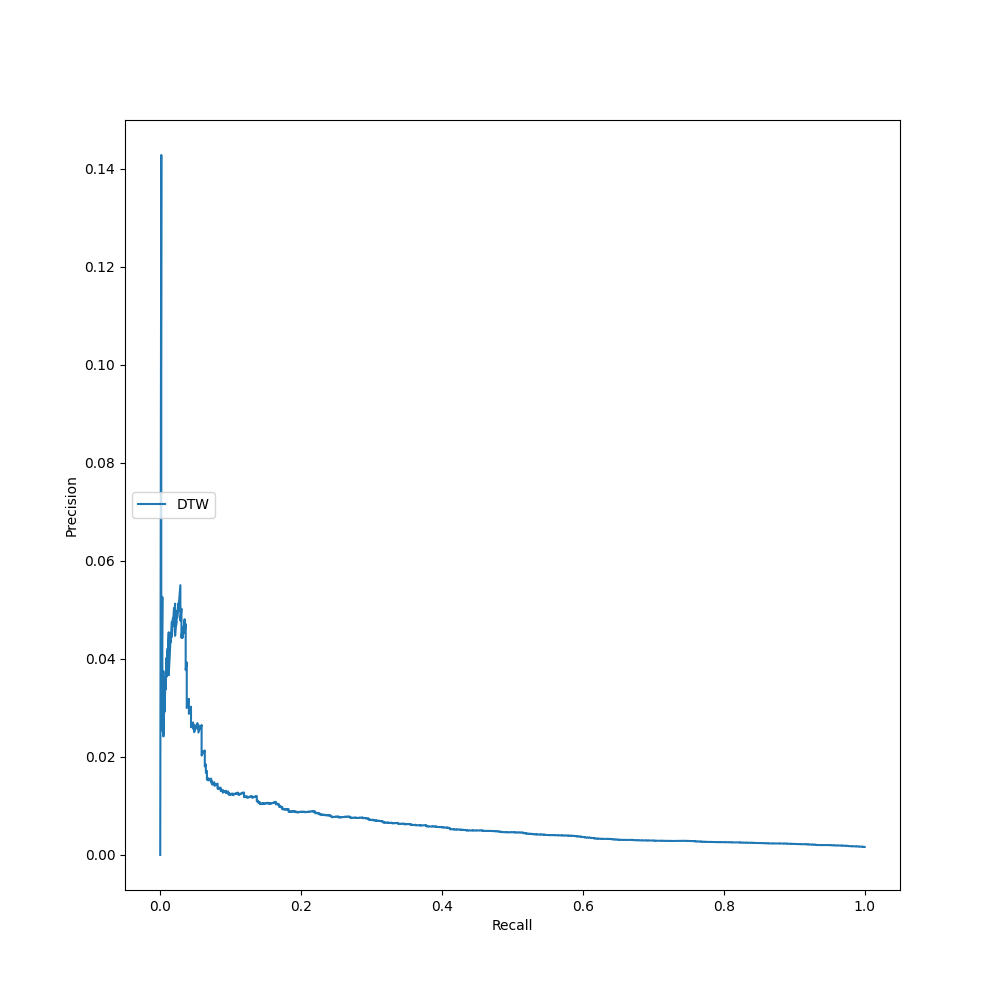
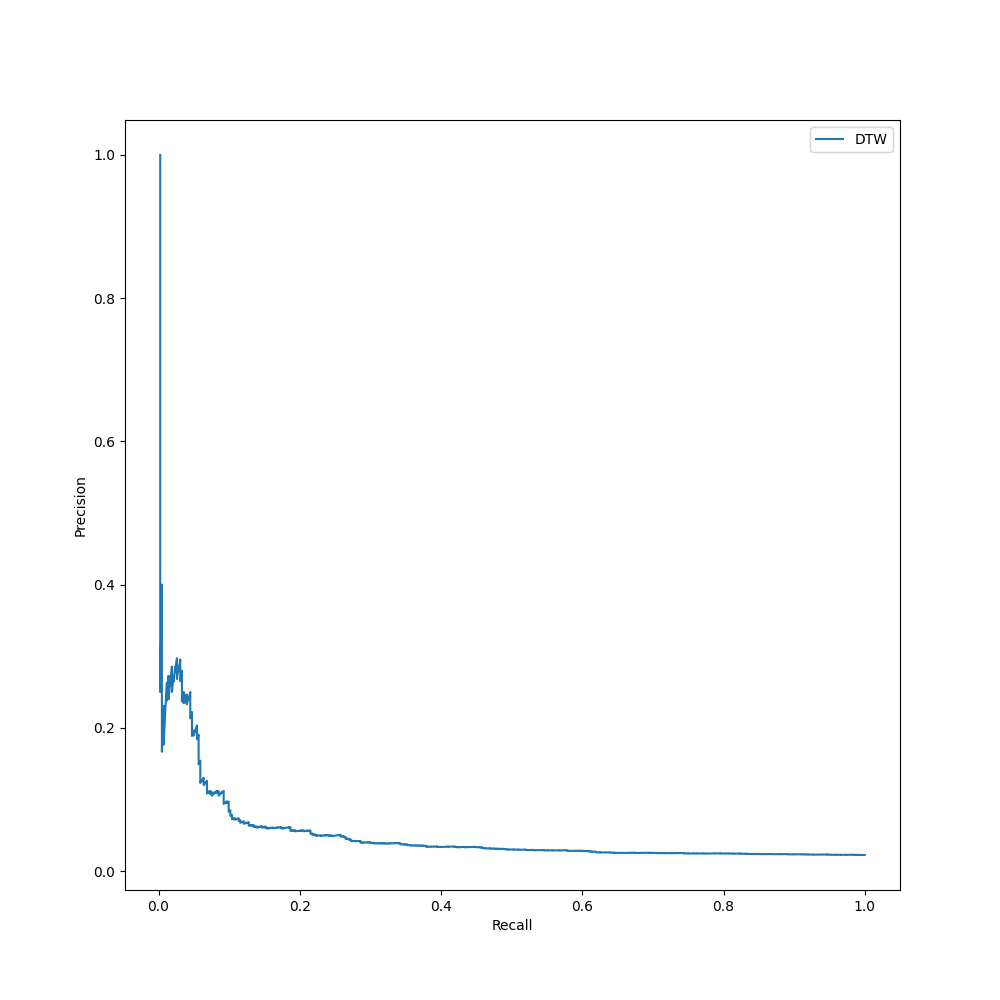
evaluation update

diff --git a/exercise3/evaluation/evaluation.py b/exercise3/evaluation/evaluation.py
@@ -1,4 +1,6 @@
 import matplotlib.pyplot as plt
+import time
+from fpdf import FPDF
 from pathlib import Path
 from exercise3.string_utils import correct_string
 
@@ -6,7 +8,6 @@ ROOT_PATH = Path.cwd().parents[0]
 TRANSCRIPTION_PATH = ROOT_PATH / "data" / "ground-truth" / "transcription.txt"
 KEYWORD_PATH = ROOT_PATH / "data" / "task" / "keywords.txt"
 CLASSIFICATION_PATH = ROOT_PATH / "distance" / "output" / "distances.csv"
-THRESHOLDS = range(5, 6)
 
 
 def read_classifications(path):
@@ -40,62 +41,57 @@ def read_transcriptions(path):
     return transcriptions
 
 
-def classification_values(classifications, transcriptions, keywords):
-    true_positives = 0
-    false_positives = 0
-    false_negatives = 0
-    classified_words = set(classifications.values())
-    for word in classified_words:
-        correct_ids = [word_id for word_id, keyword in transcriptions.items() if keyword == word.replace("-", "")]
-        classified_ids = [
-            word_id for word_id, keyword in classifications.items() if keyword == word
-        ]
-        true_positives += sum(
-            list(
-                map(lambda word_id: 1 if word_id in correct_ids else 0, classified_ids)
-            )
-        )
-        false_positives += sum(
-            list(
-                map(
-                    lambda word_id: 1 if word_id not in correct_ids else 0,
-                    classified_ids
-                )
-            )
-        )
-        false_negatives += sum(
-            list(
-                map(
-                    lambda word_id: 1 if word_id not in classified_ids else 0,
-                    correct_ids
-                )
-            )
-        )
-    return true_positives, false_positives, false_negatives
-
-
-def top_k_matches(k, classifications, transcriptions):
+def top_k_matches(k, classifications, transcriptions, threshold):
     matches = []
+    no_matches = []
     transcription_words = list(transcriptions.values())
     for word in classifications.keys():
+
+        # get ids from transcriptions associated to this word
         ids = [word_id for word_id in transcriptions.keys() if transcriptions[word_id] == word]
+
+        # get ids from classifications associated to this word (up to a specified threshold)
+        classified_ids = [y[0] for y in classifications[word][:threshold+1]]
         if word not in transcription_words:
             print(f'No transcription for word: {word}')
             continue
-        elif set(ids).isdisjoint([y[0] for y in classifications[word]]):
-            print(f'None of the classified word_ids for word \'{word}\' '
-                  f'was found in associated ids in the transcriptions')
+        elif set(ids).isdisjoint(classified_ids):
+            print(f'None of the classified ids found among the associated ids in the transcriptions for \'{word}\'')
+            no_matches.append(word)
             continue
+
+        # create match-list indicating whether a classified id corresponds to the word (1) or not (0),
+        # i.e checking if id is among ids for this word according to the transcriptions
         idx = 0
         current_matches = []
-        while sum([match[0] for match in current_matches]) < k and idx < 2433:
+        while sum([match[0] for match in current_matches]) < k and idx < threshold:
             current_matches.append(
                 (int(transcriptions[classifications[word][idx][0]] == word), classifications[word][idx][1])
             )
             idx += 1
+
+        current_matches = post_treatment(current_matches, k)
+
+        # append matches for this word to overall matches
         matches.extend(current_matches)
+
+    # sort matches by dissimilarity in ascending order
     matches.sort(key=lambda match: match[1])
-    return [match[0] for match in matches]
+    return [match[0] for match in matches], no_matches
+
+
+def post_treatment(current_matches, k):
+
+    # if number of matches smaller than k, cutoff after last match (i.e. last occurrence of a 1)
+    if sum([match[0] for match in current_matches]) < k:
+        last_match_idx = ''.join([str(match[0]) for match in current_matches]).rindex('1')
+        current_matches = current_matches[:last_match_idx + 1]
+
+    # start match-list at first match (i.e. first occurrence of a 1)
+    first_match_idx = [match[0] for match in current_matches].index(1)
+    current_matches = current_matches[first_match_idx:]
+
+    return current_matches
 
 
 def precision_recall(matches):
@@ -113,13 +109,8 @@ def plot_precision_recall_curve(precision_scores, recall_scores):
     plt.plot(recall_scores, precision_scores, label='DTW')
     plt.xlabel('Recall')
     plt.ylabel('Precision')
-    plt.legend(loc='center left')
+    plt.legend(loc='upper right')
     plt.savefig('./precision_recall_curve.png')
-    # figure, axis = plt.subplots(figsize=(6, 6))
-    # axis.plot(recall_scores, precision_scores, label="DTW")
-    # axis.set_xlabel("Recall")
-    # axis.set_ylabel("Precision")
-    # axis.legend(loc="center left")
 
 
 def calculate_average_precision(precision_scores, recall_scores):
@@ -135,17 +126,69 @@ def calculate_average_precision(precision_scores, recall_scores):
     return average_precision
 
 
+def evaluation_report(no_matches, avg_precision, time_elapsed):
+
+    # initialize new doc with empty page
+    pdf = FPDF()
+    pdf.add_page()
+
+    # add title
+    pdf.set_xy(0.0, 0.0)
+    pdf.set_font('Arial', 'B', 16)
+    pdf.set_text_color(220, 50, 50)
+    pdf.cell(w=210.0, h=40.0, align='C', txt="Evaluation", border=0)
+
+    # add list words with no match
+    text = "For the following words no match was found, i.e none of the classified ids for this word was found among " \
+           "the ids associated to this word in the transcriptions: \n"
+    pdf.set_xy(13.0, 30.0)
+    pdf.set_font('Arial', 'B', 8)
+    pdf.set_text_color(0, 0, 0)
+    pdf.multi_cell(w=180.0, h=4.0, align='l', txt=text, border=0)
+
+    no_matches = ''.join([word + ', ' for word in no_matches])
+    pdf.set_xy(13.0, 40.0)
+    pdf.set_font('Arial', '', 8)
+    pdf.multi_cell(w=180.0, h=4.0, align='L', txt=no_matches, border=0)
+
+    # add plot
+    pdf.set_xy(13.0, 130.0)
+    pdf.set_font('Arial', 'B', 8)
+    pdf.multi_cell(w=180.0, h=4.0, align='L', txt='PRECISION-RECALL-CURVE', border=0)
+    pdf.set_xy(13.0, 134.0)
+    pdf.image('./precision_recall_curve.png', link='', type='', w=130, h=130)
+
+    # avg precision and time elapsed
+    avg_precision = "Average precision calculated: " + str(avg_precision)
+    pdf.set_xy(13.0, 267.0)
+    pdf.set_font('Arial', 'B', 8)
+    pdf.cell(w=180.0, h=4.0, align='L', txt=avg_precision, border=0)
+
+    time_elapsed = "Time for evaluation: " + str(time_elapsed) + " seconds"
+    pdf.set_xy(13.0, 271.0)
+    pdf.set_font('Arial', 'B', 8)
+    pdf.cell(w=180.0, h=4.0, align='L', txt=time_elapsed, border=0)
+
+    pdf.output('./evaluation_report.pdf', 'F')
+
+
 def run_evaluation():
+    start = time.time()
     classifications = read_classifications(CLASSIFICATION_PATH)
     transcriptions = read_transcriptions(TRANSCRIPTION_PATH)
 
-    matches = top_k_matches(5, classifications, transcriptions)
+    matches, no_matches = top_k_matches(5, classifications, transcriptions, threshold=500)
 
     precision, recall = precision_recall(matches)
 
     plot_precision_recall_curve(precision, recall)
     average_precision = calculate_average_precision(precision, recall)
     print("Average precision: " + str(average_precision))
+
+    end = time.time()
+    print("Time for evaluation: " + str(end - start) + " seconds")
+
+    evaluation_report(no_matches, average_precision, end - start)
 
 
 if __name__ == "__main__":
